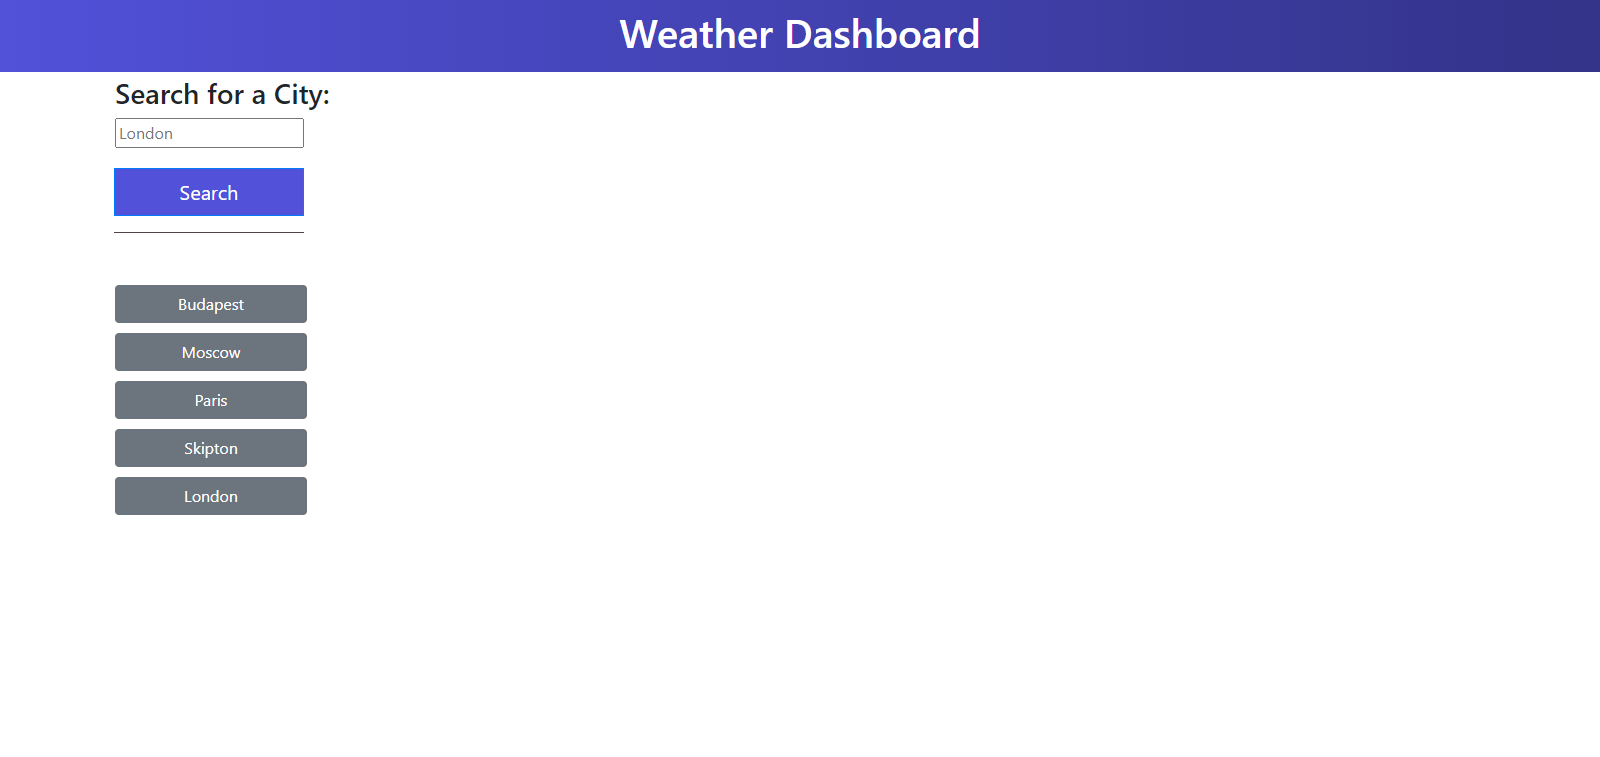
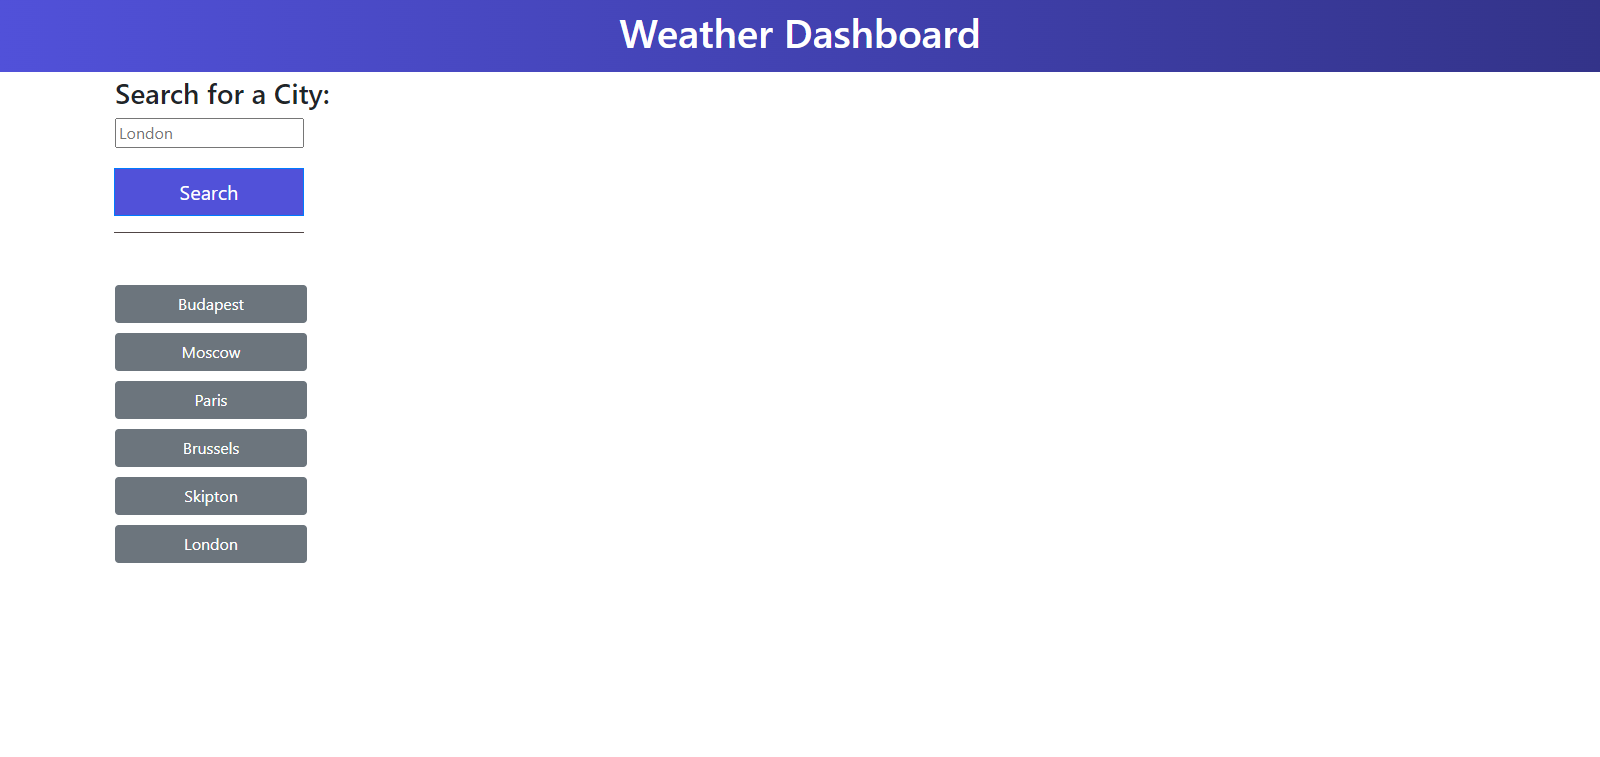
handled invalid user input

Changed region(s): [[0.0625, 0.638, 0.2188, 0.7596], [0.0938, 0.5773, 0.1562, 0.6077]]

diff --git a/assets/js/script.js b/assets/js/script.js
@@ -12,11 +12,17 @@ const userEntries = [];
 // Creating an event listener for the search button to get the city name and call the getGeoCodes function with the city name
 searchBtn.on("click", function(event) {
     event.preventDefault();
-    weather.city = searchInput.val().trim();
-    searchInput.val("");
-    userEntries.push(weather.city);
-    // console.log(weather.city);
-    getGeoCodes(weather.city);
+    const lettersAndSpace = /^[A-Za-z\s]*$/;
+    const onlyLetters = /^[A-Za-z\s]+$/;
+    if (!searchInput.val().trim().match(onlyLetters) || !searchInput.val().trim().match(lettersAndSpace)) {
+        alert("Invalid input! Please enter a valid city name!");
+    } else {
+        weather.city = searchInput.val().trim();
+        searchInput.val("");
+        userEntries.push(weather.city);
+        // console.log(weather.city);
+        getGeoCodes(weather.city);
+    }
 })
 
 // Create a function to get longitudes and langitudes to pass them to the getWeather function 
@@ -35,11 +41,11 @@ function getGeoCodes(cityName) {
         // console.log(weather.lon);
 
         // Create a button for the historic data
-        console.log(userEntries);
+        // console.log(userEntries);
         userEntries.forEach(function(userEntry) {
-            console.log(userEntry);
+            // console.log(userEntry);
             if (JSON.parse(localStorage.getItem(userEntry)) !== null) {
-                console.log("Item is already in local storage");
+                // console.log("Item is already in local storage");
             } else {
                 const cityButton = $("<button class='btn btn-secondary cityBtn' style='margin-bottom: 10px; width: 60%;'></button>").text(weather.city);
                 cityButton.attr("data-city", weather.city);
@@ -63,7 +69,7 @@ function getWeather(lat, lon) {
         url: queryURL2,
         method: "GET"
     }).then(function(response) {
-        console.log(response);
+        // console.log(response);
         // Empty the data containers before to display the new datas
         today.empty();
         forecast.empty();
@@ -91,7 +97,7 @@ function getWeather(lat, lon) {
             const cardBody = $("<div class='card-body'></div>");
             card.append(cardBody);
             currentForecastDay = moment().add(daysToAdd, "days").format("DD/MM/YYYY");
-            console.log(currentForecastDay);
+            // console.log(currentForecastDay);
             const cardTitle = $("<h5 class='card-title'></h5>").text(currentForecastDay);
             daysToAdd++;
             const image = $("<img>").attr("src", "https://openweathermap.org/img/wn/" + response.list[i].weather[0].icon +"@2x.png");
